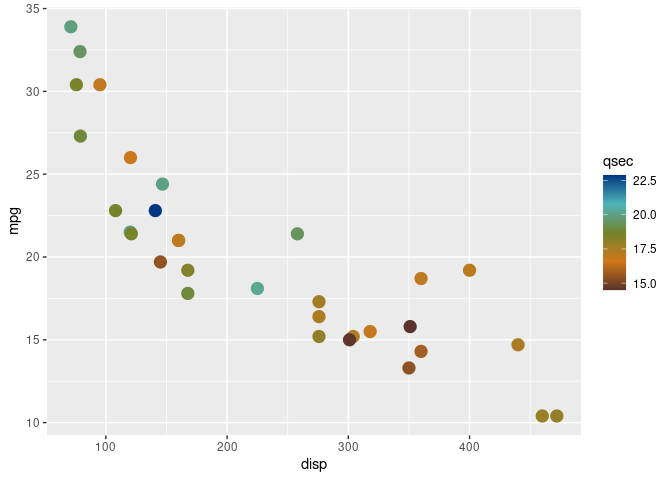
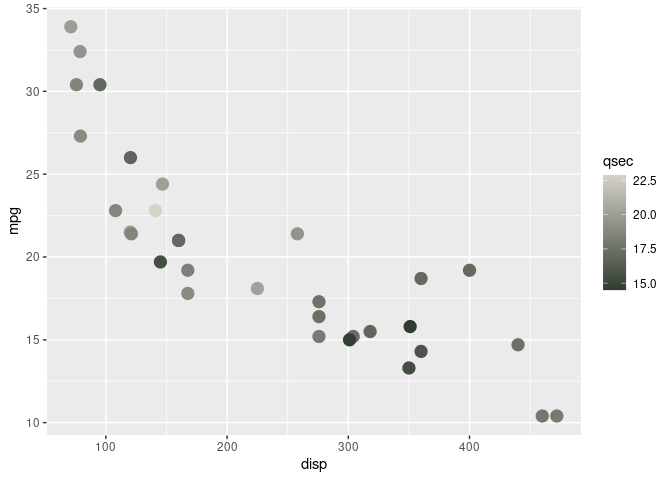
Update README

diff --git a/README.md b/README.md
@@ -6,11 +6,7 @@ including X and Y.
 
 ``` r
 library(watercolours)
-watercolours$frankwebb
 ```
-
-    ##      roof     tree1     tree2      sky1      sky2 
-    ## "#5B332B" "#D0781C" "#73842E" "#51B4B9" "#013781"
 
 ## Examples
 
@@ -18,7 +14,7 @@ watercolours$frankwebb
 library(ggplot2)
 ggplot(diamonds, aes(color, fill = clarity)) +
   geom_bar() +
-  scale_fill_watercolours(palette = "dollarichmond")
+  scale_fill_watercolour(palette = "durer")
 ```
 
 ![](README_files/figure-gfm/unnamed-chunk-2-1.png)<!-- -->
@@ -26,29 +22,45 @@ ggplot(diamonds, aes(color, fill = clarity)) +
 ``` r
 ggplot(mtcars, aes(disp, mpg, col = qsec)) +
   geom_point(size = 4) +
-  scale_color_watercolours(discrete = FALSE)
+  scale_color_watercolour(type = "continuous")
 ```
 
 ![](README_files/figure-gfm/unnamed-chunk-3-1.png)<!-- -->
 
 The available palettes are
 
-Frank Webb - Unknown painting
+Anders Zorn - Sommarnöje (1886)
 
 ``` r
-viz_palette(watercolours$frankwebb)
+show_palette("zorn")
 ```
 
 ![](README_files/figure-gfm/unnamed-chunk-4-1.png)<!-- -->
+
+Fidelia Bridges - Calla Lilly (1875)
+
+``` r
+show_palette("bridges")
+```
+
+![](README_files/figure-gfm/unnamed-chunk-5-1.png)<!-- -->
 
 Dolla Richmond -[*Mount
 Egmont*](https://artsandculture.google.com/asset/mount-egmont/2AH3LhLcXldhDA)
 
 ``` r
-viz_palette(watercolours$dollarichmond)
+show_palette("richmond")
 ```
 
-![](README_files/figure-gfm/unnamed-chunk-5-1.png)<!-- -->
+![](README_files/figure-gfm/unnamed-chunk-6-1.png)<!-- -->
+
+Albrecht Durer - Wing of a Blue Roller
+
+``` r
+show_palette("durer")
+```
+
+![](README_files/figure-gfm/unnamed-chunk-7-1.png)<!-- -->
 
 ## Installation
 
